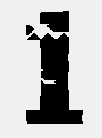
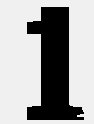
fixed captcha border cases

Changed region(s): [[0.2553, 0.0484, 0.8936, 0.9677]]

diff --git a/captcha/solveCaptcha.py b/captcha/solveCaptcha.py
@@ -4,7 +4,7 @@ import pyautogui
 import numpy as np
 import mss
 from os import listdir
-from random import randint
+from random import random, randint
 import threading
 # from skimage.metrics import structural_similarity
 
@@ -50,7 +50,7 @@ def positions(target, threshold=0.88,img = None):
     rectangles, weights = cv2.groupRectangles(rectangles, 1, 0.2)
     return rectangles
 
-def getDigits(d,img, gray=True, threshold=1):
+def getDigits(d,img, gray=True, threshold = 1):
     digits = []
     for i in range(10):
         if gray:
@@ -60,7 +60,6 @@ def getDigits(d,img, gray=True, threshold=1):
 
         p = positions(template,img=img,threshold=threshold)
         if len (p) > 0:
-            print('digit {} found!, x: {}'.format(i, p[0][0]))
             digits.append({'digit':str(i),'x':p[0][0]})
 
     def getX(e):
@@ -159,7 +158,7 @@ def r():
     return randint(0,5)
 
 def moveToReveal(popup_pos):
-    # time.sleep(10)
+    # time.sleep(5)
     # return
     x,y,_,_ = popup_pos
     speed = 0.6
@@ -168,6 +167,7 @@ def moveToReveal(popup_pos):
     w = 465
     h = 150
     passes = 9
+    #11
     increment_x = w/passes
     increment_y = h/passes
     start_x = x + offset_x + r()
@@ -183,27 +183,12 @@ def moveToReveal(popup_pos):
     pyautogui.moveTo(start_x+ w + r(),start_y + h + r(),speed)
     time.sleep(1)
 
-# def generateDiff(first,position):
-    # gray_first = cv2.cvtColor(first, cv2.COLOR_BGR2GRAY)
-    # screenshot = printSreen()
-    # img = screenshot.copy()
-    # second = captchaImg(img,position)
-    # gray_second = cv2.cvtColor(second, cv2.COLOR_BGR2GRAY)
-
-
-    # (_, diff) = structural_similarity(gray_first,gray_second, full=True)
-    # diff = (diff * 255).astype("uint8")
-    # cv2.imshow('img',diff)
-    # cv2.waitKey(5000)
-
-    # cv2.imshow('img',cp)
-    # return diff
-
 def preProcess(img,popup_pos):
     img = captchaImg(img, popup_pos[0])
     img = cv2.cvtColor(img, cv2.COLOR_BGR2GRAY)
     t,img = cv2.threshold(img,170,240,cv2.THRESH_BINARY_INV)
     return img
+
 def add(img0, img1):
     return cv2.bitwise_and(img0, img1, mask = None)
 
@@ -219,19 +204,16 @@ def getDiff(data):
     start = end
     i = len(screenshots)
 
-    print('{} samples taken in {} seconds({}/s)'.format(i,elapsed,i/elapsed))
     popup_pos = positions(d['robot'],img=screenshot)
     preprocessed_data = [preProcess(s, popup_pos) for s in screenshots]
     end = time.time()
     elapsed = end-start
     start = end
-    print('Processed {} images in {} seconds'.format(len(preprocessed_data),elapsed))
     result = preprocessed_data[0]
     for sample in preprocessed_data:
         result = add(result, sample)
     end = time.time()
     elapsed = end-start
-    print('Combined {} images in {} seconds'.format(len(preprocessed_data),elapsed))
     # cv2.imshow('result',result)
     # cv2.waitKey(5000)
     data[0] = result
@@ -258,21 +240,44 @@ def getBackgroundText():
         path = "./tmp/{}.png".format(str(time.time()))
         cv2.imwrite(path,data[0])
     digits = getDigits(d,data[0],threshold = 0.9)
-    # cv2.imshow('test',data[0])
-    # cv2.waitKey(0)
-    # img = captchaImg(screenshot, popup_pos[0])
-    # cv2.imshow('img',img)
-    # cv2.waitKey(0)
+
     return digits
 
-def getSmallDigits(img):
+def getSmallDigits(img, threshold=0.95,i=0):
     if __name__ == '__main__':
         path = "./tmp/small{}.png".format(str(time.time()))
         # cv2.imwrite(path,img)
-    digits = getDigits(s,img, gray=False, threshold=0.95)
-    print('fg = {}'.format(digits))
+    digits = getDigits(s,img, gray=False, threshold=threshold)
 
-    return digits
+    if i > 10:
+        if __name__ == '__main__':
+            path = "./tmp/small{}.png".format(str(time.time()))
+            cv2.imwrite(path,img)
+            print('❌ Too many attempts for Captcha!')
+            print(digits)
+        return [digits, threshold]
+
+    if len(digits) == 3:
+        return [digits, threshold]
+    if len(digits) < 3:
+        return getSmallDigits(img,threshold=threshold-0.3,i=i+1)
+    if len(digits) > 3:
+        return getSmallDigits(img,threshold=threshold+0.07,i=i+1)
+
+def lookForMatch(background_digits,popup_pos, has_found):
+        screenshot = printSreen()
+        popup_pos = positions(d['robot'],img=screenshot)
+        threshold = 0.95
+
+        for i in range(100):
+            screenshot = printSreen()
+            captcha_img = smallDigitsImg(screenshot, popup_pos[0])
+            small_digits, threshold = getSmallDigits(captcha_img, threshold=threshold)
+            if small_digits == background_digits:
+                pyautogui.mouseUp()
+                print('✅ Captch resolved with success!', flush=True)
+                has_found[0] = True
+                return
 
 def solveCaptcha():
     screenshot = printSreen()
@@ -283,38 +288,40 @@ def solveCaptcha():
         return
     img = captchaImg(img, popup_pos[0])
     background_digits = getBackgroundText()
-    print('background = {}'.format(background_digits))
-    slider_positions = getSliderPositions(screenshot, popup_pos)
+    print('🧩 Captcha analyse results: {}'.format(background_digits))
+    x,y = position(d['slider'],img=screenshot)
 
-    if slider_positions is None:
+    pyautogui.moveTo(x+r(),y+r(),0.8)
+    has_found = [False]
+    watcher = threading.Thread(target=lookForMatch, args =(background_digits,popup_pos,has_found))
+    watcher.start()
+    pyautogui.mouseDown()
+    time.sleep(1)
+    def movePercentage(n):
+        current_x,_ = pyautogui.position()
+        speed_factor = 2
+        slider_size = 300
+        destination = x+r()+n*slider_size
+        randomness = random()/6
+        speed = (abs(current_x - destination)/slider_size)*speed_factor + randomness
+        pyautogui.moveTo(destination,y+r(),speed,pyautogui.easeOutQuad)
+
+    randomness = random()/5
+    movePercentage(.4+randomness)
+    if has_found[0]:
         return
-    # moveSlider(screenshot,3,popup_pos)
-
-
-    for position in slider_positions:
-        x, y = position
-        pyautogui.moveTo(x,y,1)
-        time.sleep(1)
-        screenshot = printSreen()
-        popup_pos = positions(d['robot'],img=screenshot)
-        captcha_img = smallDigitsImg(screenshot, popup_pos[0])
-        small_digits = getSmallDigits(captcha_img)
-        # print( 'dig: {}, background_digits: {}'.format(digits, background_digits))
-        if background_digits in small_digits:
-            print('✅ Captch found!')
-            pyautogui.mouseUp()
-            return
-    print('❌ Captcha not found')
-    pyautogui.click()
+    randomness = random()/5
+    movePercentage(-0.1+randomness)
+    if has_found[0]:
+        return
+    randomness = random()/5
+    movePercentage(1+randomness)
+    if has_found[0]:
+        return
+    pyautogui.mouseUp()
+    print('❌ Captcha not resolved!')
+    time.sleep(5)
     return
 
 if __name__ == '__main__':
     solveCaptcha()
-#TODO colocar positions em um arquivo separado e importar nos outros.
-# tirar o load digits daqui e passar como argumento na funçao
-
-        # (_, new_diff) = structural_similarity(img0,img1, full=True)
-        # diff[0] = (new_diff * 255).astype("uint8")
-# arrumar o mexer das posiçoes pra ele vazer mais movimentos verticais
-# calcular n de sliders ou fazer recursivamente.
-# fazer os and so no final

diff --git a/index.py b/index.py
@@ -305,7 +305,7 @@ def refreshHeroesPositions():
         logger('🔄 Refreshing Heroes Positions.')
         clickBtn(images['treasure-hunt-icon'])
     else:
-        logger('⏭ Skipping refreshing Heroes Positions.')
+        logger('⏭  Skipping refreshing Heroes Positions.')
 
 def login():
     global login_attempts
@@ -429,7 +429,7 @@ def refreshHeroes():
         logger('✔  {} heroes sent to work'.format(hero_clicks))
         goToGame()
     else:
-        logger('⏭ Skipping sending heroes to work')
+        logger('⏭  Skipping sending heroes to work')
 
 def main():
     time.sleep(5)
